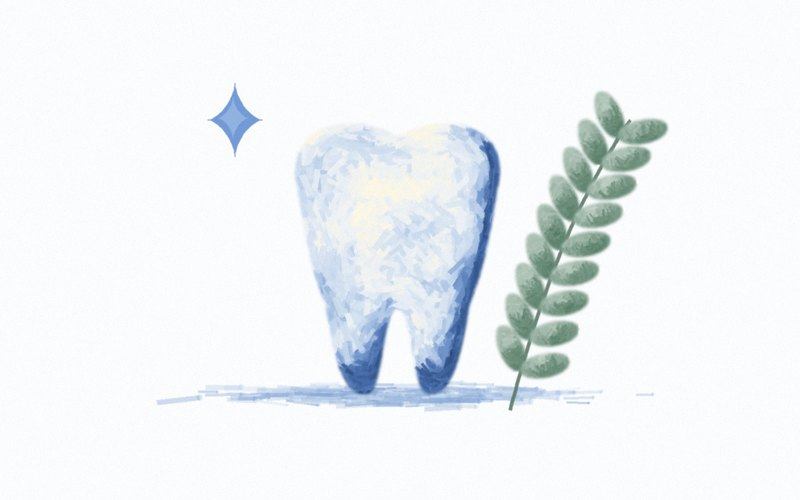
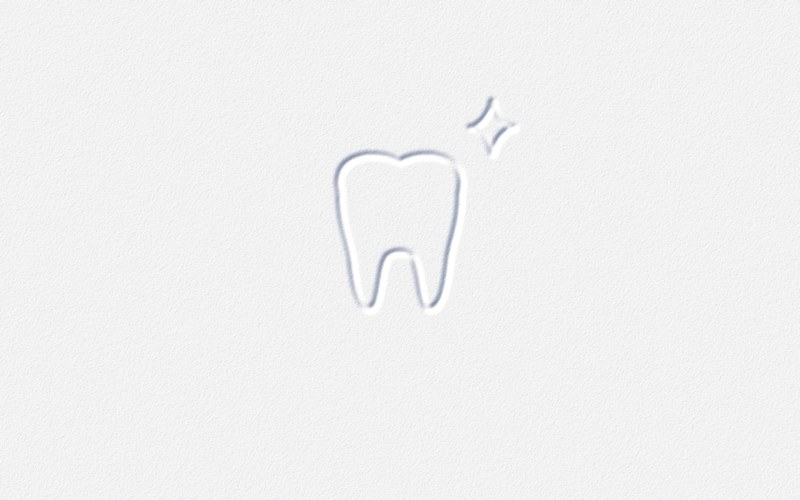
Switch video thumbnails to letterpress line-art style
Claude-Session: https://claude.ai/code/session_01QABkREfXka2RTpjkwJuBy8

Changed region(s): [[0.1875, 0.18, 0.8438, 0.84], [0.25, 0.18, 0.3438, 0.3]]

diff --git a/asap-dental-app/index.html b/asap-dental-app/index.html
@@ -309,7 +309,7 @@ button:active:not(:disabled),a.btn:active,.feature:active,a.video:active,.rowlin
 
 /* Videos: painted thumbnails on white */
 .video{display:grid;grid-template-columns:128px 1fr;gap:14px;align-items:center;background:none;border:0;padding:0;text-align:left;width:100%;color:inherit;text-decoration:none}
-.video .thumb{aspect-ratio:16/10;max-width:100%;border-radius:18px;background:#fbfcfd center/cover;position:relative;display:grid;place-items:center;box-shadow:var(--shadow);border:1px solid var(--line)}
+.video .thumb{aspect-ratio:16/10;max-width:100%;border-radius:18px;background:#f3f3f2 50% 42%/170% auto no-repeat;position:relative;display:grid;place-items:center;box-shadow:var(--shadow);border:1px solid var(--line)}
 .play{width:36px;height:36px;border-radius:50%;background:var(--brand);color:#fff;display:grid;place-items:center;position:relative;z-index:1;box-shadow:0 6px 16px color-mix(in srgb,var(--brand) 35%,transparent)}
 .play .ico{width:15px;height:15px;fill:currentColor;stroke:none;margin-left:2px}
 .video .play{position:absolute;right:8px;bottom:8px;width:30px;height:30px}
@@ -319,7 +319,7 @@ button:active:not(:disabled),a.btn:active,.feature:active,a.video:active,.rowlin
 .pill.gold{background:color-mix(in srgb,var(--gold) 16%,var(--card-solid));color:var(--gold)}
 .pill.warn{background:color-mix(in srgb,var(--warn) 14%,var(--card-solid));color:var(--warn)}
 .feature{display:flex;flex-direction:column;border-radius:26px;overflow:hidden;background:var(--card);box-shadow:var(--shadow);color:inherit;text-decoration:none;border:1px solid var(--glow)}
-.feature .art{position:relative;aspect-ratio:16/9;max-width:100%;background:#fbfcfd center/cover;display:grid;place-items:center}
+.feature .art{position:relative;aspect-ratio:16/9;max-width:100%;background:#f3f3f2 center/cover;display:grid;place-items:center}
 .feature .play{position:absolute;left:18px;bottom:16px;width:54px;height:54px;animation:breathe 4s ease-in-out infinite}
 .feature .play .ico{width:22px;height:22px;margin-left:3px}
 .feature .cap{padding:16px 18px 18px;display:flex;flex-direction:column;gap:6px;align-items:flex-start}

diff --git a/asap-dental-app/paint-thumbnails.py b/asap-dental-app/paint-thumbnails.py
@@ -1,199 +1,116 @@
-"""Painterly thumbnail renderer: shapes are filled with short oriented brush strokes,
-shaded light-from-upper-left in creamy whites and soft blues, like the reference art."""
-import math, random, sys
+"""Video thumbnails in a letterpress style: thin line-art pressed into textured white paper,
+lit from the upper left. Run: python3 paint-thumbnails.py <out_dir> [scene ...]"""
+import math, sys
 import numpy as np
 from PIL import Image, ImageDraw, ImageFilter
 
 W, H = 1600, 1000
-BG = (251, 252, 253)
-PAL = [(0.00,(38,66,112)),(0.22,(70,108,170)),(0.42,(132,166,214)),(0.62,(200,217,238)),(0.80,(238,242,246)),(1.00,(252,247,228))]
+LW = 11                    # line width of the pressed artwork
+rng = np.random.default_rng(11)
 
-def pal(v):
-    v = min(1, max(0, v))
-    for (a,ca),(b,cb) in zip(PAL, PAL[1:]):
-        if v <= b:
-            t = (v-a)/(b-a); return tuple(int(ca[i]+(cb[i]-ca[i])*t) for i in range(3))
-    return PAL[-1][1]
+def blur(a, r):
+    im = Image.fromarray(np.clip(a * 255, 0, 255).astype(np.uint8) if a.max() <= 1.001 else a.astype(np.uint8))
+    return np.asarray(im.filter(ImageFilter.GaussianBlur(r)), dtype=np.float32) / 255
 
-def bez(p0,p1,p2,p3,n=40):
-    return [((1-t)**3*p0[0]+3*(1-t)**2*t*p1[0]+3*(1-t)*t*t*p2[0]+t**3*p3[0],
-             (1-t)**3*p0[1]+3*(1-t)**2*t*p1[1]+3*(1-t)*t*t*p2[1]+t**3*p3[1]) for t in np.linspace(0,1,n)]
+def bez(p0, p1, p2, p3, n=48):
+    t = np.linspace(0, 1, n)[:, None]
+    return ((1-t)**3*np.array(p0) + 3*(1-t)**2*t*np.array(p1) + 3*(1-t)*t*t*np.array(p2) + t**3*np.array(p3)).tolist()
 
 def path(start, segs, ox, oy, s):
-    pts=[]; cur=start
-    for c1,c2,e in segs:
-        pts += bez(cur,c1,c2,e); cur=e
-    return [(ox+x*s, oy+y*s) for x,y in pts]
+    pts, cur = [], start
+    for c1, c2, e in segs:
+        pts += bez(cur, c1, c2, e); cur = e
+    return [(ox + x*s, oy + y*s) for x, y in pts]
 
-TOOTH = ((0.08,0.30),[((0.02,0.05),(0.30,-0.02),(0.50,0.10)),((0.70,-0.02),(0.98,0.05),(0.92,0.30)),
-        ((0.88,0.55),(0.86,0.65),(0.80,0.80)),((0.76,1.05),(0.72,1.18),(0.64,1.18)),((0.58,1.18),(0.58,1.0),(0.54,0.86)),
-        ((0.52,0.80),(0.48,0.80),(0.46,0.86)),((0.42,1.0),(0.42,1.18),(0.36,1.18)),((0.28,1.18),(0.24,1.05),(0.20,0.80)),
-        ((0.14,0.65),(0.12,0.55),(0.08,0.30))])
-CAP = ((0.08,0.30),[((0.02,0.05),(0.30,-0.02),(0.50,0.10)),((0.70,-0.02),(0.98,0.05),(0.92,0.30)),
-        ((0.92,0.42),(0.90,0.50),(0.88,0.56)),((0.70,0.60),(0.30,0.60),(0.12,0.56)),((0.10,0.50),(0.08,0.42),(0.08,0.30))])
+# Simple molar outline (closed), unit box about 1 x 1.15
+TOOTH = ((0.10, 0.28), [((0.04, 0.04), (0.32, -0.02), (0.50, 0.08)), ((0.68, -0.02), (0.96, 0.04), (0.90, 0.28)),
+        ((0.90, 0.50), (0.84, 0.60), (0.82, 0.76)), ((0.80, 0.95), (0.76, 1.06), (0.70, 1.06)), ((0.64, 1.06), (0.64, 0.86), (0.60, 0.74)),
+        ((0.57, 0.66), (0.43, 0.66), (0.40, 0.74)), ((0.36, 0.86), (0.36, 1.06), (0.30, 1.06)), ((0.24, 1.06), (0.20, 0.95), (0.18, 0.76)),
+        ((0.16, 0.60), (0.10, 0.50), (0.10, 0.28))])
+STUMP = ((0.15, 0.56), [((0.16, 0.64), (0.17, 0.70), (0.18, 0.76)), ((0.20, 0.95), (0.24, 1.06), (0.30, 1.06)), ((0.36, 1.06), (0.36, 0.86), (0.40, 0.74)),
+        ((0.43, 0.66), (0.57, 0.66), (0.60, 0.74)), ((0.64, 0.86), (0.64, 1.06), (0.70, 1.06)), ((0.76, 1.06), (0.80, 0.95), (0.82, 0.76)),
+        ((0.83, 0.70), (0.84, 0.64), (0.85, 0.56)), ((0.66, 0.51), (0.34, 0.51), (0.15, 0.56))])
+CAP = ((0.10, 0.28), [((0.04, 0.04), (0.32, -0.02), (0.50, 0.08)), ((0.68, -0.02), (0.96, 0.04), (0.90, 0.28)),
+        ((0.89, 0.40), (0.87, 0.48), (0.85, 0.54)), ((0.65, 0.58), (0.35, 0.58), (0.15, 0.54)), ((0.13, 0.48), (0.11, 0.40), (0.10, 0.28))])
 
-def mask_of(polys):
-    m = Image.new('L',(W,H),0); d = ImageDraw.Draw(m)
-    for p in polys: d.polygon(p, fill=255)
-    return m
-
-class Canvas:
-    def __init__(s, seed):
-        random.seed(seed); np.random.seed(seed)
-        s.img = Image.new('RGB',(W,H),BG); s.d = ImageDraw.Draw(s.img,'RGBA')
-    def stroke(s, x, y, ang, ln, wd, col, a):
-        dx, dy = math.cos(ang)*ln/2, math.sin(ang)*ln/2
-        s.d.line([(x-dx,y-dy),(x+dx,y+dy)], fill=col+(a,), width=int(wd))
-        r = wd/2.2; s.d.ellipse([x+dx-r,y+dy-r,x+dx+r,y+dy+r], fill=col+(int(a*.8),))
-    def paint(s, mask, n=9000, light=(-0.55,-0.83), bias=0.0, wscale=1.0, palfn=pal, interior_dir=None):
-        a = np.asarray(mask, dtype=np.float32)/255
-        b = np.asarray(mask.filter(ImageFilter.GaussianBlur(30)), dtype=np.float32)/255
-        bb = np.asarray(mask.filter(ImageFilter.GaussianBlur(80)), dtype=np.float32)/255
-        ys, xs = np.nonzero(a > .5)
-        if len(xs) == 0: return
-        bbn = bb / max(bb[ys, xs].max(), 1e-3)
-        gy, gx = np.gradient(b)
-        patch = np.asarray(Image.fromarray((np.random.rand(H//60+1, W//60+1)*255).astype(np.uint8)).resize((W, H), Image.BICUBIC), dtype=np.float32)/255
-        tmp = s.img.copy(); d = ImageDraw.Draw(tmp, 'RGBA'); keep = s.d; s.d = d
-        def shade(x, y):
-            g = (gx[y,x], gy[y,x]); gm = math.hypot(*g)
-            facing = 0 if gm < 1e-5 else (-g[0]*light[0]-g[1]*light[1])/gm
-            edgew = min(1, (1-b[y,x])*1.6)
-            return (0.70 + 0.25*(bbn[y,x]-0.5) + edgew*(0.55*facing - 0.25) + (patch[y,x]-0.5)*0.3 + bias + random.gauss(0, .07)), g, gm, facing
-        for cnt, wmin, wmax, lmin, lmax in [(n*.4, 18, 30, 40, 90), (n*.6, 9, 16, 20, 46)]:
-            for i in np.random.randint(0, len(xs), int(cnt)):
-                x, y = xs[i], ys[i]
-                v, g, gm, facing = shade(x, y)
-                if gm > 2e-4: ang = math.atan2(g[1], g[0]) + math.pi/2 + random.gauss(0, .3)
-                else: ang = (interior_dir if interior_dir is not None else random.choice([-0.7, 0.8])) + random.gauss(0, .45)
-                s.stroke(x, y, ang, random.uniform(lmin, lmax)*wscale, random.uniform(wmin, wmax)*wscale, palfn(v), random.randint(170, 240))
-        edge = np.nonzero((b > .3) & (b < .62) & (a > .5))
-        if len(edge[0]):
-            for i in np.random.randint(0, len(edge[0]), int(n*.05)):
-                y, x = edge[0][i], edge[1][i]
-                v, g, gm, facing = shade(x, y)
-                if facing > -.1: continue
-                ang = math.atan2(g[1], g[0]) + math.pi/2 + random.gauss(0, .15)
-                s.stroke(x, y, ang, random.uniform(20, 44)*wscale, random.uniform(5, 9)*wscale, palfn(.08 + random.random()*.2), random.randint(150, 220))
-        s.d = keep
-        clip = mask.filter(ImageFilter.MaxFilter(7)).filter(ImageFilter.GaussianBlur(2.5))
-        s.img = Image.composite(tmp, s.img, clip); s.d = ImageDraw.Draw(s.img, 'RGBA')
-    def ground(s, cx, cy, wd, n=260):
-        for _ in range(n):
-            x = cx + random.gauss(0, wd*.32); y = cy + random.gauss(0, 9)
-            s.stroke(x, y, random.gauss(0, .06), random.uniform(30, 90), random.uniform(5, 12), pal(random.uniform(.38, .7)), random.randint(60, 150))
+class Art:
+    def __init__(s):
+        s.m = Image.new('L', (W, H), 0); s.d = ImageDraw.Draw(s.m)
+    def line(s, pts, closed=False, w=LW):
+        pts = [tuple(p) for p in pts] + ([tuple(pts[0])] if closed else [])
+        s.d.line(pts, fill=255, width=w, joint='curve')
+        for x, y in (pts[0], pts[-1]): s.d.ellipse([x - w/2, y - w/2, x + w/2, y + w/2], fill=255)
+    def tooth(s, ox, oy, size, shape=TOOTH): s.line(path(shape[0], shape[1], ox, oy, size), closed=True)
     def sparkle(s, cx, cy, r):
-        def star(cx, cy, r, col):
-            pts = [(cx + r*.85*math.cos(t)**3, cy + r*1.15*math.sin(t)**3) for t in np.linspace(0, 2*math.pi, 120)]
-            s.d.polygon(pts, fill=col)
-        star(cx, cy, r, (104,146,210,235)); star(cx - r*.06, cy - r*.06, r*.55, (150,184,228,200))
-    def finish(s, out):
-        im = s.img.filter(ImageFilter.SMOOTH_MORE)
-        # light canvas grain
-        n = (np.random.normal(0, 3.2, (H, W, 1))).astype(np.int16)
-        arr = np.clip(np.asarray(im).astype(np.int16) + n, 0, 255).astype(np.uint8)
-        Image.fromarray(arr).resize((800, 500), Image.LANCZOS).save(out, quality=86, optimize=True, progressive=True)
+        s.line([(cx + r*.8*math.cos(t)**3, cy + r*math.sin(t)**3) for t in np.linspace(0, 2*math.pi, 90)], closed=True, w=LW - 1)
+    def circle(s, cx, cy, r): s.line([(cx + r*math.cos(t), cy + r*math.sin(t)) for t in np.linspace(0, 2*math.pi, 120)], closed=True)
 
-def tooth_poly(ox, oy, s, shape=TOOTH): return path(shape[0], shape[1], ox, oy, s)
-
-def rot_rect(cx, cy, w, h, ang, r=0):
-    c, sn = math.cos(ang), math.sin(ang)
-    pts = []
-    for x, y in [(-w/2,-h/2),(w/2,-h/2),(w/2,h/2),(-w/2,h/2)]:
-        pts.append((cx + x*c - y*sn, cy + x*sn + y*c))
-    return pts
-
-def mirror(c, cx, cy, ang=-0.22, length=560, head=118):
-    # handle
-    hx, hy = cx + math.sin(ang)*length*.55, cy + math.cos(ang)*length*.55
-    hm = mask_of([rot_rect(hx, hy, 30, length*.9, -ang)])
-    c.paint(hm, n=1400, wscale=.5, interior_dir=math.pi/2 - ang, palfn=lambda v: pal(0.06 + v*0.22))
-    # knurling
-    for k in range(40):
-        t = random.uniform(.35, .75); px, py = cx + math.sin(ang)*length*t, cy + math.cos(ang)*length*t
-        c.stroke(px + random.gauss(0, 5), py, random.choice([.8, -.8]), 22, 3, (40, 62, 98), 180)
-    # head ring + glass
-    ring = Image.new('L', (W, H), 0); dr = ImageDraw.Draw(ring)
-    dr.ellipse([cx-head, cy-head*1.08, cx+head, cy+head*1.08], fill=255)
-    c.paint(ring, n=2400, wscale=.7, interior_dir=-0.75, palfn=lambda v: pal(0.38 + v*0.5))
-    c.d.ellipse([cx-head, cy-head*1.08, cx+head, cy+head*1.08], outline=(40, 66, 110, 235), width=13)
+def press(art, out):
+    m = np.asarray(art.m.filter(ImageFilter.GaussianBlur(1.4)), dtype=np.float32) / 255
+    fine, mid, coarse = (blur(rng.random((H, W)), r) for r in (1.0, 2.6, 9))
+    paper = fine * .45 + mid * .4 + coarse * .15
+    h = -blur(m, 3.6) * 1.0 + (paper - .5) * .22          # groove depth + paper tooth
+    gy, gx = np.gradient(h)
+    shade = (gx + gy) * .7                                 # light from the upper left
+    dark = np.clip(-shade, 0, None) * 980; lit = np.clip(shade, 0, None) * 420
+    base = 243 + (coarse - .5) * 10 - m * 2.5
+    r = base - dark * 1.06 + lit; g = base - dark * .97 + lit; b = base - dark * .70 + lit * .92
+    img = np.clip(np.dstack([r, g, b]), 0, 255).astype(np.uint8)
+    Image.fromarray(img).resize((800, 500), Image.LANCZOS).save(out, quality=88, optimize=True, progressive=True)
 
 SCENES = {}
 def scene(f): SCENES[f.__name__] = f; return f
 
 @scene
-def mirror_tooth(c):
-    m = mask_of([tooth_poly(560, 230, 470)]); c.ground(800, 790, 520); c.paint(m, n=11000)
-    mirror(c, 1060, 330); c.sparkle(470, 240, 70)
+def calm(a):
+    a.tooth(650, 300, 300); a.sparkle(985, 255, 54)
 
 @scene
-def brush(c):
-    m = mask_of([tooth_poly(420, 250, 440)]); c.ground(700, 785, 520); c.paint(m, n=10000)
-    # toothbrush standing at an angle, head up, bristles facing the tooth
-    ang = -1.22; ux, uy = math.cos(ang), math.sin(ang)
-    x0, y0 = 1010, 800; x1, y1 = x0 + ux*470, y0 + uy*470
-    hm = mask_of([rot_rect((x0 + x1)/2, (y0 + y1)/2, 470, 40, ang)])
-    c.paint(hm, n=2600, wscale=.6, interior_dir=ang, palfn=lambda v: pal(0.30 + v*0.45))
-    hx, hy = x1 + ux*70, y1 + uy*70
-    head = mask_of([rot_rect(hx, hy, 150, 46, ang)])
-    c.paint(head, n=1200, wscale=.5, interior_dir=ang, palfn=lambda v: pal(0.25 + v*0.4))
-    nx, ny = -uy, ux
-    for k in range(90):
-        t = random.uniform(-62, 62); bx, by = hx + ux*t - nx*40, hy + uy*t - ny*40
-        c.stroke(bx, by, math.atan2(ny, nx) + random.gauss(0, .08), random.uniform(34, 48), random.uniform(5, 8), pal(random.uniform(.42, .78)), 235)
-    c.sparkle(330, 230, 60)
+def mirror_tooth(a):
+    a.tooth(560, 300, 300)
+    a.circle(1000, 380, 68)
+    ang = -0.32; x0, y0 = 1000 - math.sin(ang)*68, 380 + math.cos(ang)*68
+    a.line([(x0, y0), (x0 - math.sin(ang)*300, y0 + math.cos(ang)*300)])
+    a.sparkle(500, 280, 44)
 
 @scene
-def crown(c):
-    m = mask_of([tooth_poly(560, 360, 470)]); c.ground(800, 940, 520)
-    # stump: lower part of tooth only
-    stump = Image.new('L', (W, H), 0); ImageDraw.Draw(stump).polygon(tooth_poly(560, 360, 470), fill=255)
-    cut = Image.new('L', (W, H), 0); ImageDraw.Draw(cut).rectangle([0, 360 + 470*.42, W, H], fill=255)
-    stump = Image.fromarray(np.minimum(np.asarray(stump), np.asarray(cut)))
-    c.paint(stump, n=7000, bias=-.08)
-    cap = mask_of([tooth_poly(540, 120, 510, CAP)]); c.paint(cap, n=6000, bias=.06)
-    c.sparkle(1180, 200, 64); c.sparkle(450, 300, 40)
+def brush(a):
+    a.tooth(560, 310, 290)
+    ang = -1.2; ux, uy = math.cos(ang), math.sin(ang); nx, ny = -uy, ux
+    x0, y0 = 980, 690; x1, y1 = x0 + ux*330, y0 + uy*330
+    for off in (-14, 14): a.line([(x0 + nx*off, y0 + ny*off), (x1 + nx*off*.8, y1 + ny*off*.8)])
+    a.line([(x0 - nx*14, y0 - ny*14), (x0 + nx*14, y0 + ny*14)])
+    hx, hy = x1 + ux*60, y1 + uy*60
+    a.line([(x1 + nx*11, y1 + ny*11), (hx + ux*50 + nx*11, hy + uy*50 + ny*11)])
+    for t in np.linspace(-10, 100, 6):
+        bx, by = x1 + ux*t + nx*11, y1 + uy*t + ny*11
+        a.line([(bx, by), (bx + nx*34, by + ny*34)], w=LW - 2)
+    a.sparkle(500, 290, 40)
 
 @scene
-def implant(c):
-    cap = mask_of([tooth_poly(600, 120, 400, CAP)]); c.ground(800, 930, 360)
-    c.paint(cap, n=6000)
-    ab = mask_of([[(740, 345), (860, 345), (845, 440), (755, 440)]]); c.paint(ab, n=1200, bias=-.3, wscale=.6, interior_dir=0)
-    screw = mask_of([[(735, 440), (865, 440), (845, 820), (800, 880), (755, 820)]]); c.paint(screw, n=3200, bias=-.32, wscale=.6, interior_dir=0)
-    for k in range(9):
-        y = 470 + k*42; half = 66 - k*3.4
-        for _ in range(4):
-            c.stroke(800 + random.gauss(0, 6), y + random.gauss(0, 3), -0.18 + random.gauss(0, .05), half*2.1, random.uniform(5, 8), (46, 74, 120), 210)
-    c.sparkle(1120, 260, 64)
+def crown(a):
+    a.tooth(650, 330, 300, STUMP)
+    a.tooth(650, 205, 300, CAP)
+    a.sparkle(1000, 230, 44)
 
 @scene
-def floss(c):
-    for ox in (420, 790):
-        m = mask_of([tooth_poly(ox, 260, 390)]); c.paint(m, n=7000)
-    c.ground(800, 760, 640)
-    pts = bez((440, 150), (620, 190), (760, 300), (800, 345), 40) + bez((800, 345), (840, 300), (980, 190), (1160, 150), 40)
-    for (x1, y1), (x2, y2) in zip(pts, pts[1:]):
-        c.d.line([(x1, y1), (x2, y2)], fill=(52, 86, 140, 230), width=7)
-    c.sparkle(1250, 210, 60)
+def implant(a):
+    a.tooth(650, 230, 300, CAP)
+    a.line([(760, 410), (840, 410), (830, 470), (770, 470)], closed=True)
+    a.line([(770, 470), (830, 470), (816, 720), (800, 752), (784, 720)], closed=True)
+    for k in range(6):
+        y = 500 + k*38; half = 34 - k*3
+        a.line([(800 - half - 8, y + 6), (800 + half + 8, y - 6)], w=LW - 2)
+    a.sparkle(1010, 250, 44)
 
 @scene
-def calm(c):
-    m = mask_of([tooth_poly(560, 230, 470)]); c.ground(800, 790, 520); c.paint(m, n=11000)
-    # eucalyptus sprig
-    stem = bez((1020, 820), (1080, 600), (1140, 420), (1260, 240), 50)
-    for (x1, y1), (x2, y2) in zip(stem, stem[1:]): c.d.line([(x1, y1), (x2, y2)], fill=(92, 120, 104, 230), width=7)
-    for i, (x, y) in enumerate(stem[6::5]):
-        for side in (-1, 1):
-            ang = -1.1 + side*0.9
-            lm = Image.new('L', (W, H), 0); ld = ImageDraw.Draw(lm)
-            lx, ly = x + math.cos(ang)*48, y + math.sin(ang)*48
-            ld.ellipse([lx-46, ly-20, lx+46, ly+20], fill=255)
-            lm = lm.rotate(math.degrees(-ang), center=(lx, ly))
-            c.paint(lm, n=500, wscale=.5, palfn=lambda v: tuple(int(a*(1-v*.55) + b*v*.55) for a, b in zip((96, 132, 112), (226, 236, 228))))
-    c.sparkle(470, 240, 64)
+def floss(a):
+    a.tooth(520, 320, 270); a.tooth(800, 320, 270)
+    a.line(bez((540, 210), (660, 230), (770, 300), (800, 355)) + bez((800, 355), (830, 300), (940, 230), (1060, 210)))
+    a.sparkle(1120, 260, 40)
 
 if __name__ == '__main__':
     out = sys.argv[1]
-    for i, (name, f) in enumerate(SCENES.items()):
+    for name, f in SCENES.items():
         if len(sys.argv) > 2 and name not in sys.argv[2:]: continue
-        c = Canvas(7 + i); f(c); c.finish(f'{out}/thumb-{name}.jpg'); print('rendered', name)
+        a = Art(); f(a); press(a, f'{out}/thumb-{name}.jpg'); print('pressed', name)
